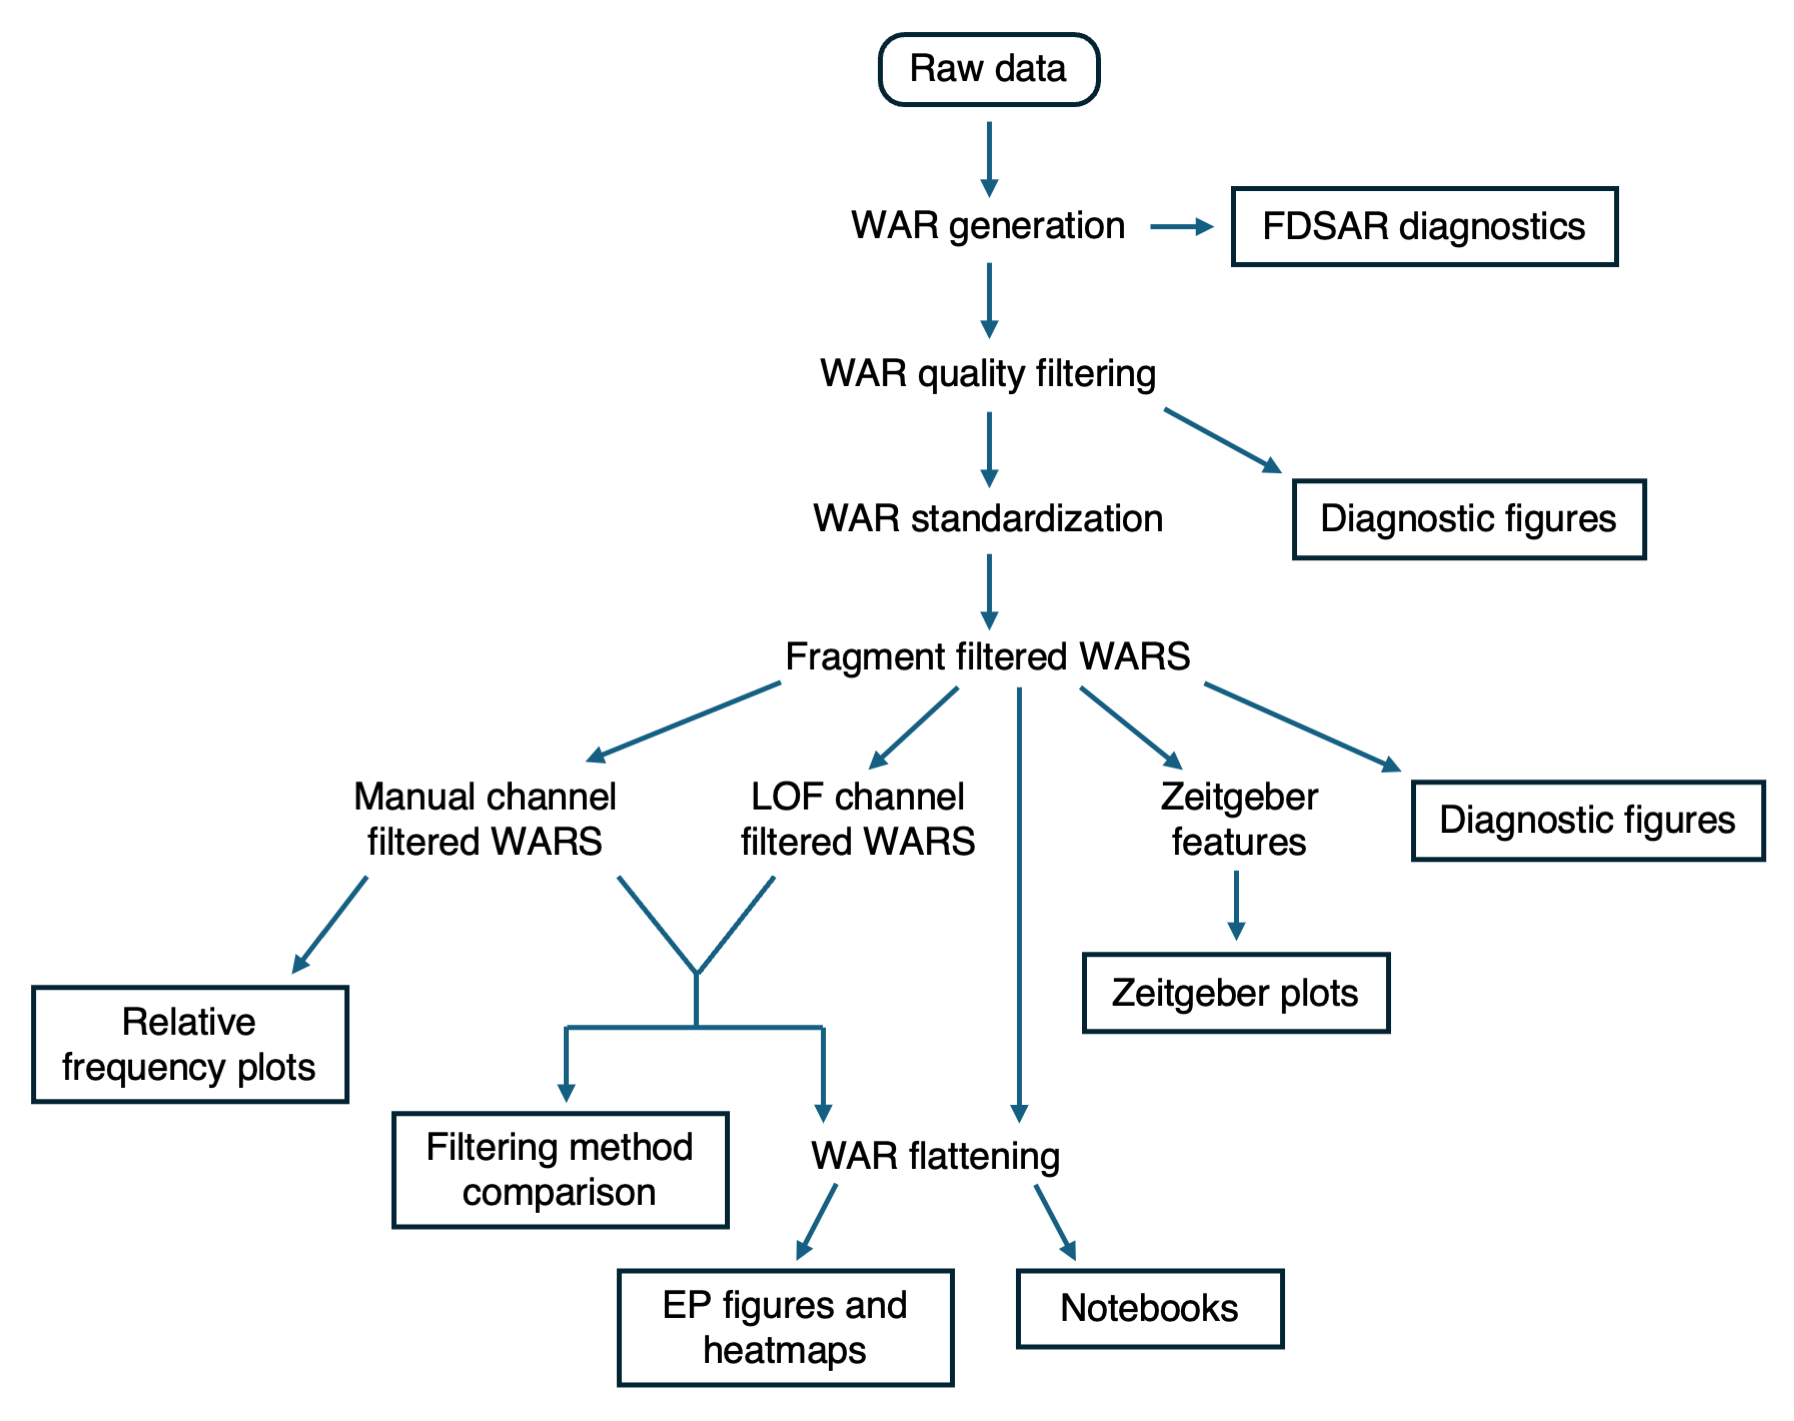
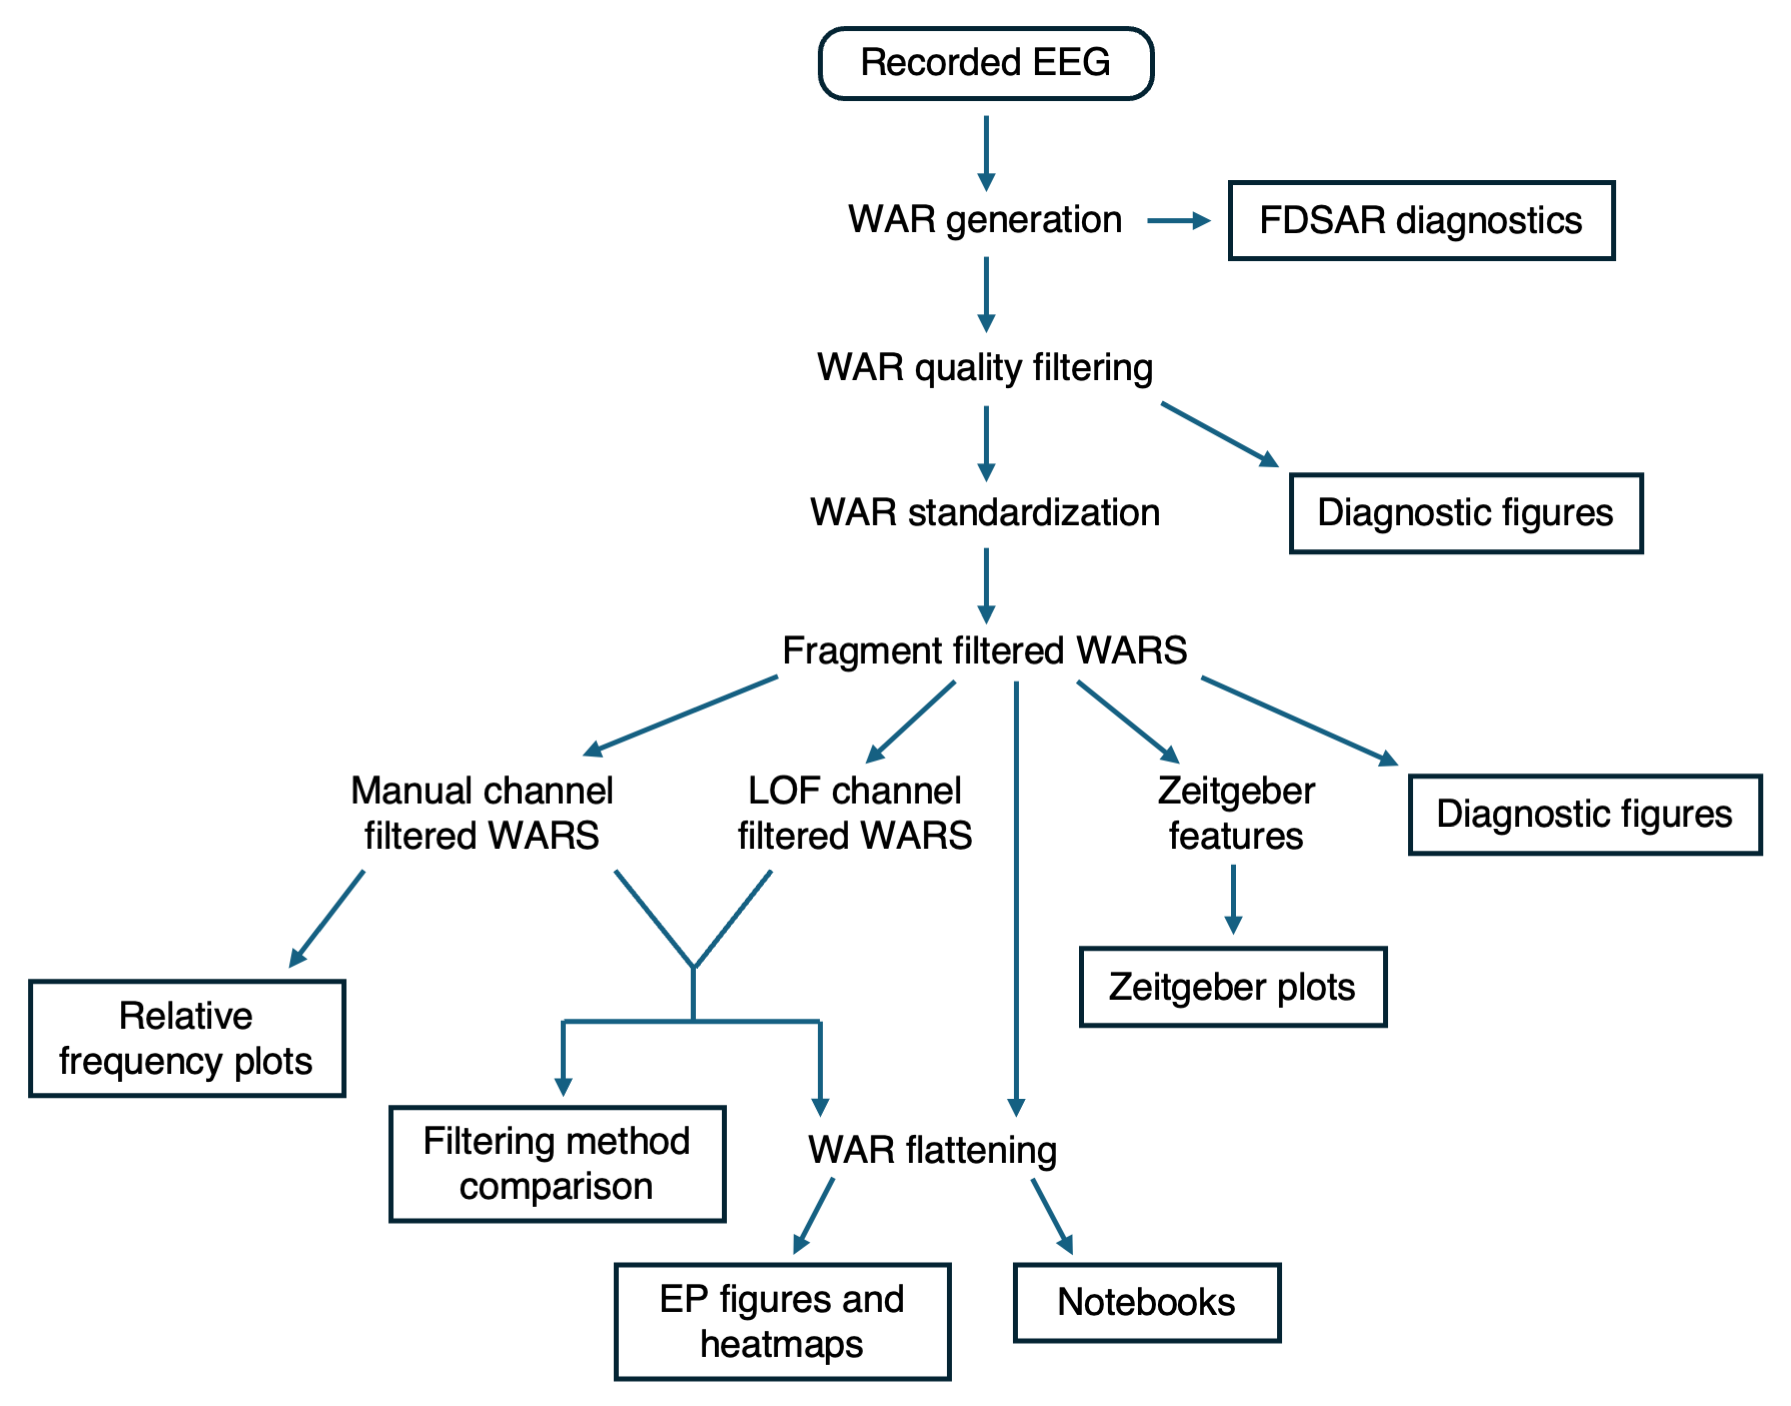
adjust wording and figures

diff --git a/paper/paper.md b/paper/paper.md
@@ -51,9 +51,9 @@ The current landscape of electrophysiology and neuroimaging software includes se
 
 # Software Design
 
-![`NeuRodent` package schematic showing data flow through LongRecordingOrganizers (LRO), AnimalOrganizer (AO), WindowAnalysisResult (WAR), FrequencyDomainSpikeAnalysisResult (FDSAR), ZeitgeberAnalysisResult (ZAR), AnimalPlotter (AP), ExperimentPlotter (EP), and ZeitgeberPlotter (ZP).\label{fig:figure1}](./2026-05-14%20Neurodent%20JOSS%20Paper%20Figure%20cropped.png)
+![`NeuRodent` package schematic showing data flow through LongRecordingOrganizers (LRO), AnimalOrganizer (AO), WindowAnalysisResult (WAR), FrequencyDomainSpikeAnalysisResult (FDSAR), ZeitgeberAnalysisResult (ZAR), AnimalPlotter (AP), ExperimentPlotter (EP), and ZeitgeberPlotter (ZP).\label{fig:figure1}](./2026-05-14%20Neurodent%20JOSS%20Paper%20Figure%201%20cropped.png)
 
-![`NeuRodent` `Snakemake` pipeline schematic showing data flow through rules.\label{fig:figure2}](./2026-05-15%20Neurodent%20JOSS%20paper%20figure%202%20cropped.png)
+![`NeuRodent` `Snakemake` pipeline flowchart showing data flow from raw EEG data to outputs (boxed).\label{fig:figure2}](./2026-05-15%20Neurodent%20JOSS%20paper%20figure%202%20cropped.png)
 
 `NeuRodent` is organized as two independently installable components: a core Python analysis library (\autoref{fig:figure1}), and a `Snakemake` pipeline that orchestrates the library over large datasets (\autoref{fig:figure2}). This layered design balances ease of adoption with scalable deployment: per-session or per-animal analyses can use the core library alone and call it from scripts or notebooks, while multi-animal and multi-session processing can use the `Snakemake` pipeline to gain cluster-level orchestration using SLURM or Kubernetes. The two components are decoupled, ensuring that changes to the pipeline logic do not force changes on users of the core library, and vice versa.
 
